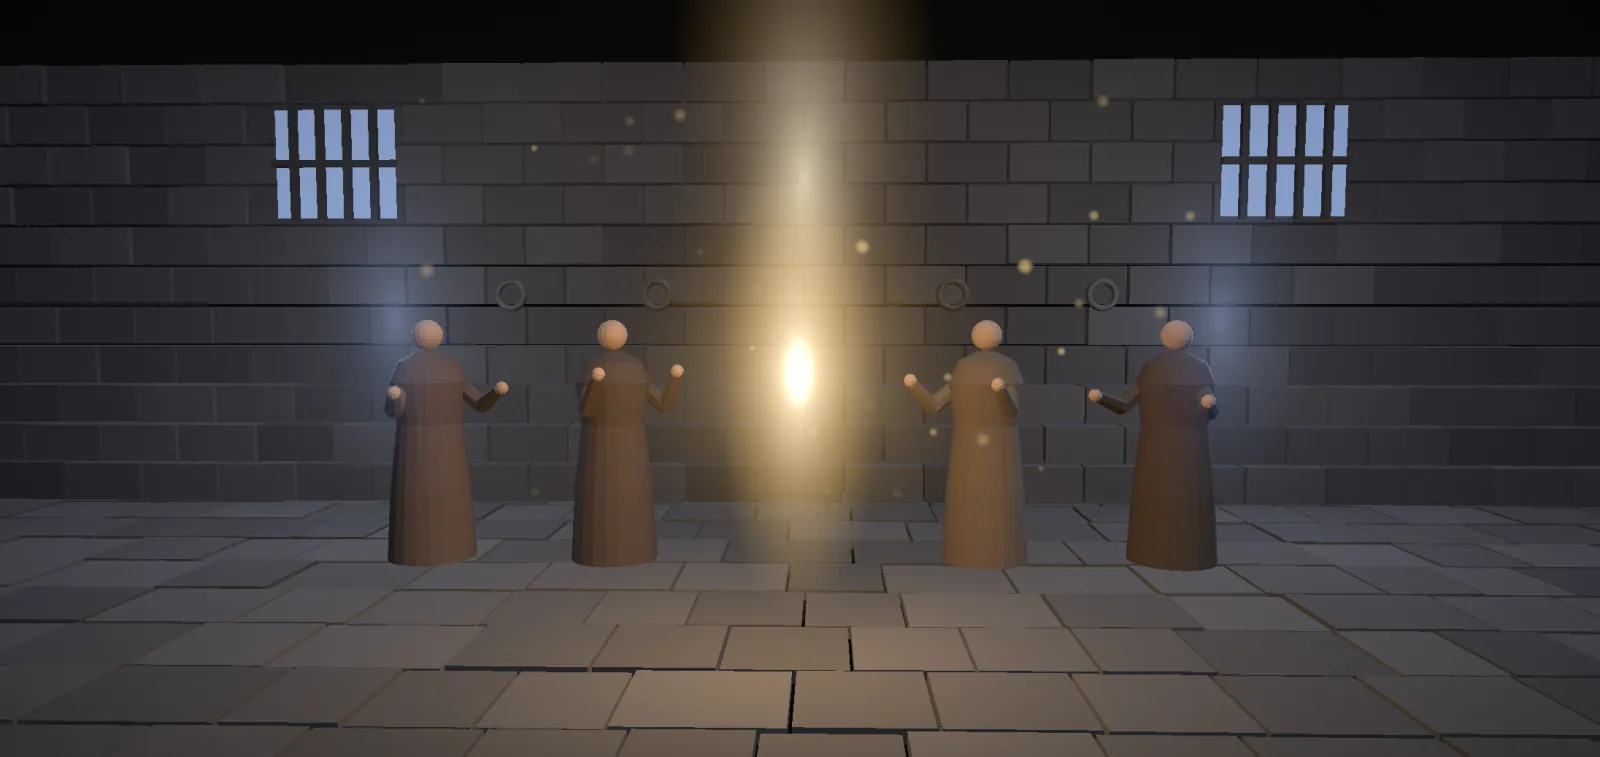
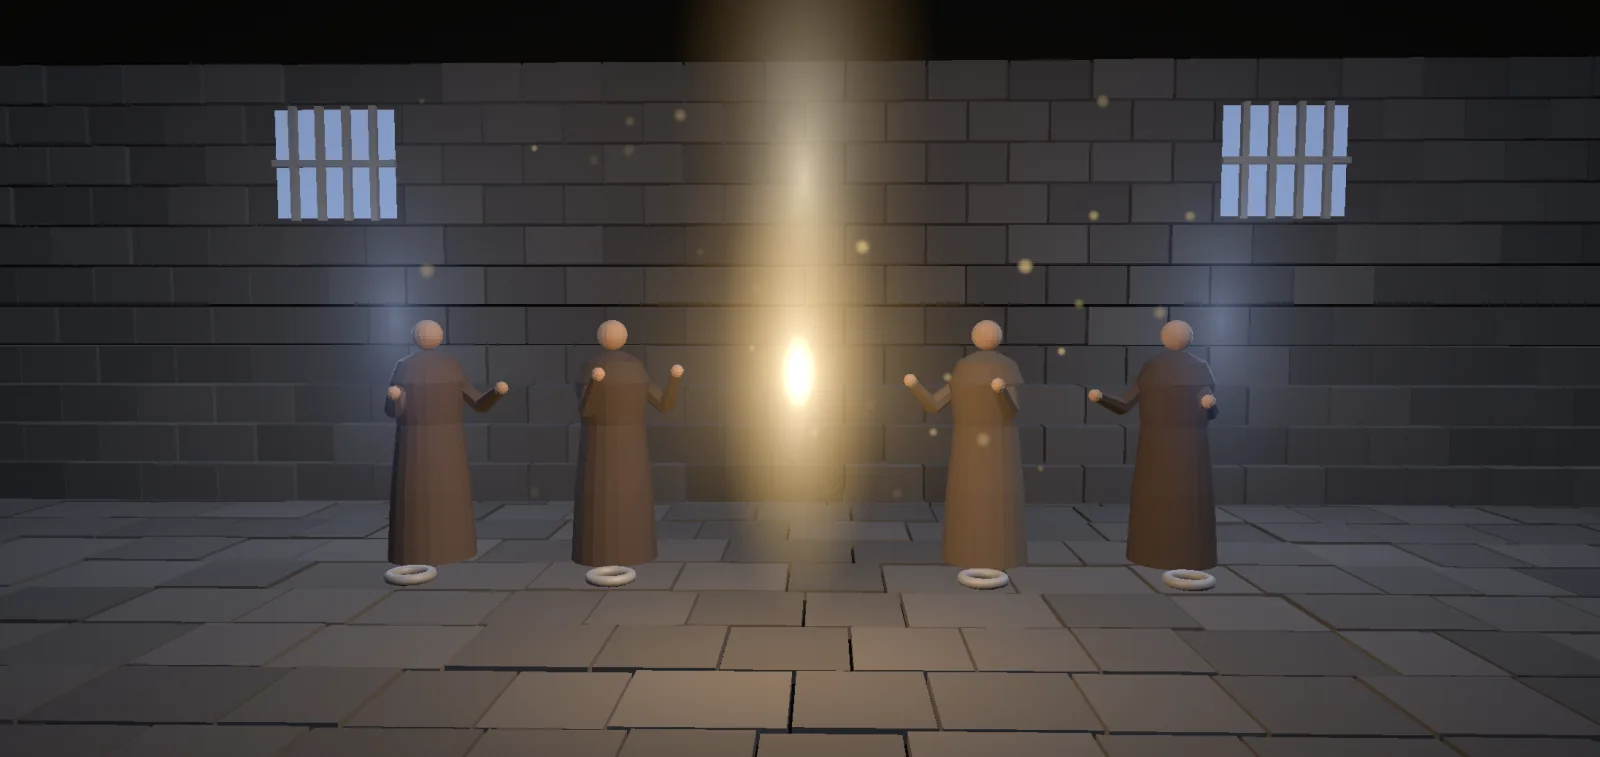
Chain the Hebrews 2 captives to rings in the floor
Chains ran from the wall and vanished behind the captives, because the
wrists are in front of the body. They now run from floor rings up to the
wrists, in lighter iron, so it is clear what holds them and what breaks.

diff --git a/components/scenes/three/scenes/FreedScene.tsx b/components/scenes/three/scenes/FreedScene.tsx
@@ -39,7 +39,8 @@ const LAND = 5;
 const BREAK = 5.3;
 const RISE = 6.2;
 const RISE_TIME = 1.2;
-const LINKS = 11;
+const LINKS = 9;
+const RING_Z = 0.86;
 /** Where each captive kneels, their robe, how far their hands lift, and how long after the first they rise (s). */
 const CAPTIVES: [number, string, number, number][] = [
   [-2.2, "#6B5442", 0.5, 0.5],
@@ -55,14 +56,15 @@ function hash(n: number) {
   return x - Math.floor(x);
 }
 
-/** Where each link hangs on its chain from the wall ring down to the captive's wrists, and where it flies when the chain breaks. */
+/** Where each link hangs on its chain from the floor ring up to the captive's wrists, and where it flies when the chain breaks. */
 const LINK_REST = CAPTIVES.flatMap(([cx], c) =>
   Array.from({ length: LINKS }, (_, i) => {
     const k = (i + 0.5) / LINKS;
-    const a = new Vector3(cx, 1.55, WALL_Z + 0.08);
-    const b = new Vector3(cx + Math.sign(cx) * 0.08, 0.34, 0.5);
+    const wrist = cx - Math.sign(cx) * 0.09;
+    const a = new Vector3(wrist, 0.03, RING_Z);
+    const b = new Vector3(wrist, 0.3, 0.66);
     const p = a.clone().lerp(b, k);
-    p.y -= 0.22 * Math.sin(k * Math.PI);
+    p.y -= 0.05 * Math.sin(k * Math.PI);
     const tangent = b.clone().sub(a).normalize();
     const n = c * LINKS + i;
     return {
@@ -97,7 +99,7 @@ const BLOCKS = (() => {
   return out;
 })();
 
-/** “That through death he might destroy the one who has the power of death, and deliver all those who through fear of death were subject to lifelong slavery”: captives kneel chained to a prison wall; light comes down among them, the chains break and scatter, and the captives rise. */
+/** “That through death he might destroy the one who has the power of death, and deliver all those who through fear of death were subject to lifelong slavery”: captives kneel chained in a prison; light comes down among them, the chains break and scatter, and the captives rise. */
 export function FreedScene({ mobile, effects }: SceneProps) {
   useResetCameraOnUnmount();
   const haze = useRef(1);
@@ -116,8 +118,8 @@ export function FreedScene({ mobile, effects }: SceneProps) {
   const flash = useRef<ShaderMaterial | null>(null);
   const geo = useMemo(
     () => ({
-      link: new TorusGeometry(0.06, 0.018, 6, 14).scale(1.5, 1, 1),
-      ring: new TorusGeometry(0.1, 0.025, 8, 18),
+      link: new TorusGeometry(0.05, 0.016, 6, 14).scale(1.4, 1, 1),
+      ring: new TorusGeometry(0.11, 0.03, 8, 18),
       block: new BoxGeometry(0.58, 0.28, 0.3),
     }),
     [],
@@ -125,9 +127,9 @@ export function FreedScene({ mobile, effects }: SceneProps) {
   const mats = useMemo(
     () => ({
       iron: new MeshStandardMaterial({
-        color: "#6E655A",
-        metalness: 0.6,
-        roughness: 0.45,
+        color: "#B4AA9A",
+        metalness: 0.25,
+        roughness: 0.5,
       }),
       stone: new MeshStandardMaterial({
         color: "#FFFFFF",
@@ -328,7 +330,8 @@ export function FreedScene({ mobile, effects }: SceneProps) {
           key={x}
           geometry={geo.ring}
           material={mats.iron}
-          position={[x * spread, 1.58, WALL_Z + 0.05]}
+          rotation={[-Math.PI / 2, 0, 0]}
+          position={[(x - Math.sign(x) * 0.09) * spread, 0.03, RING_Z]}
         />
       ))}
       <instancedMesh

diff --git a/content/hebrews/2.ts b/content/hebrews/2.ts
@@ -948,7 +948,7 @@ const MV: Movement[] = [
     num: "IV",
     range: "14–18",
     scene: "freed",
-    art: "3D · R3F — captives kneel chained to a prison wall; light comes down among them, the chains break and scatter, and the captives rise with their hands lifted.",
+    art: "3D · R3F — captives kneel in a prison, their wrists chained to rings in the floor; light comes down among them, the chains break and scatter, and they rise one by one with open hands. Christ is shown only as light.",
     en: {
       title: "Made like his brothers",
       quote:
